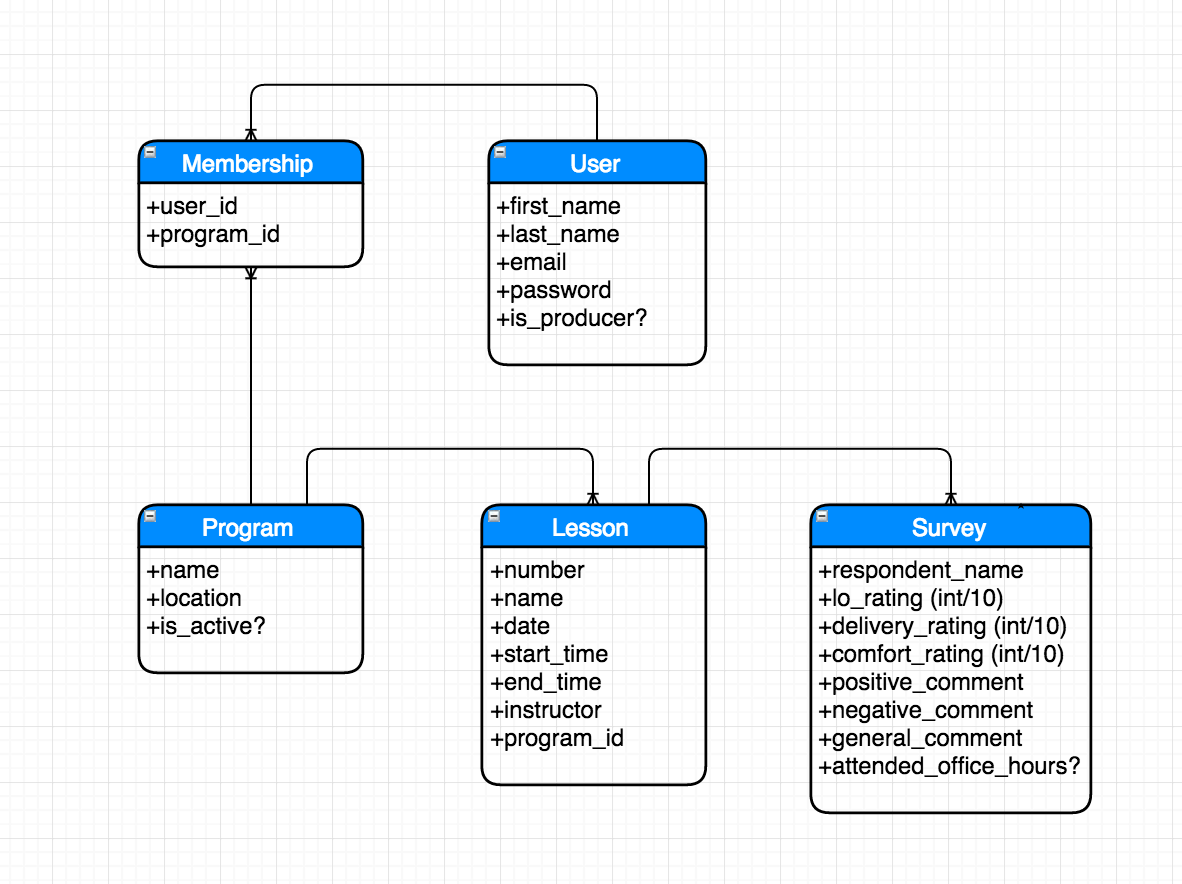
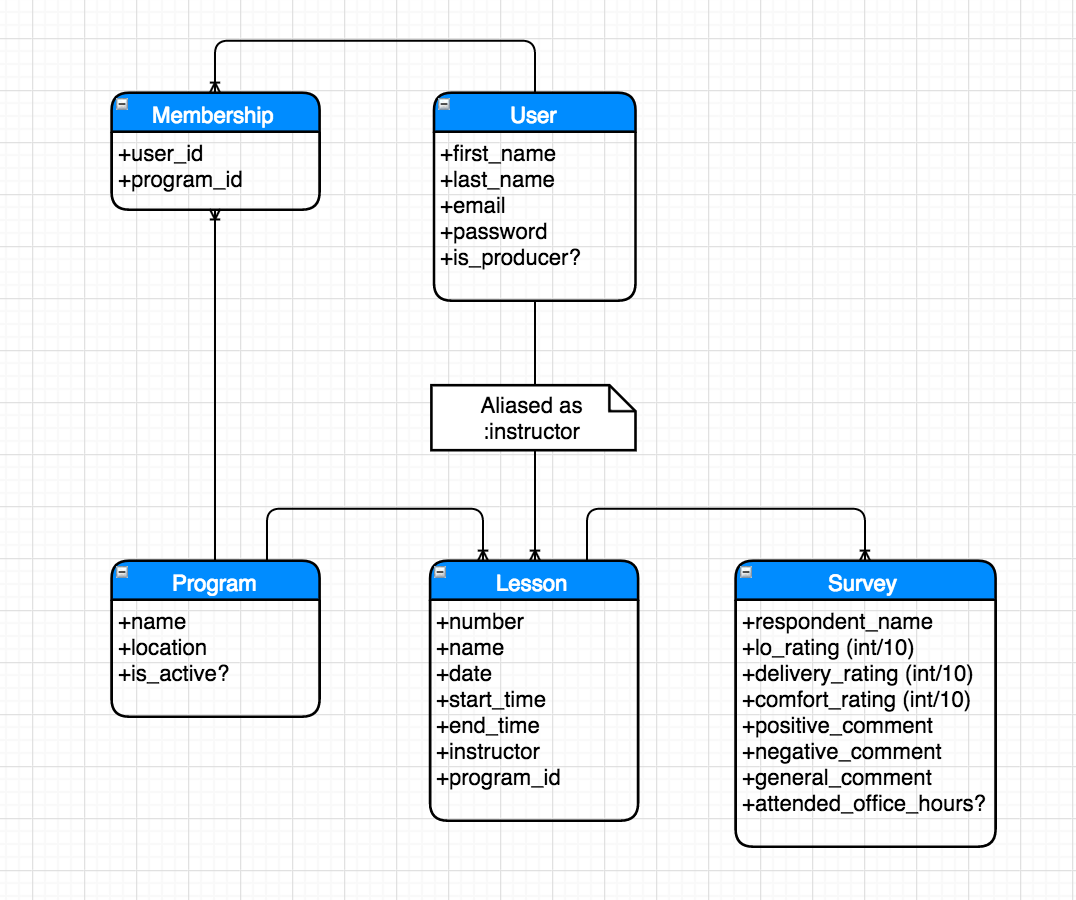
added Lesson model / migration, updated ERD with :instructor alias association

diff --git a/exit_ticket_app/db/schema.rb b/exit_ticket_app/db/schema.rb
@@ -10,10 +10,22 @@
 #
 # It's strongly recommended that you check this file into your version control system.
 
-ActiveRecord::Schema.define(version: 20170228144859) do
+ActiveRecord::Schema.define(version: 20170301151122) do
 
   # These are extensions that must be enabled in order to support this database
   enable_extension "plpgsql"
+
+  create_table "lessons", force: :cascade do |t|
+    t.integer  "number"
+    t.string   "name"
+    t.date     "date"
+    t.time     "start_time"
+    t.time     "end_time"
+    t.integer  "user_id"
+    t.datetime "created_at", null: false
+    t.datetime "updated_at", null: false
+    t.index ["user_id"], name: "index_lessons_on_user_id", using: :btree
+  end
 
   create_table "memberships", force: :cascade do |t|
     t.integer  "user_id"

diff --git a/exit_ticket_app/db/migrate/20170301151122_create_lessons.rb b/exit_ticket_app/db/migrate/20170301151122_create_lessons.rb
@@ -1,0 +1,13 @@
+class CreateLessons < ActiveRecord::Migration[5.0]
+  def change
+    create_table :lessons do |t|
+      t.integer :number
+      t.string :name
+      t.date :date
+      t.time :start_time
+      t.time :end_time
+      t.references :user
+      t.timestamps
+    end
+  end
+end

diff --git a/exit_ticket_app/app/models/user.rb b/exit_ticket_app/app/models/user.rb
@@ -6,4 +6,6 @@ class User < ApplicationRecord
 
   has_many :memberships
   has_many :programs, through: :memberships
+  has_many :lessons
+  alias_attribute :lessons_taught, :lessons
 end

diff --git a/exit_ticket_app/app/models/lesson.rb b/exit_ticket_app/app/models/lesson.rb
@@ -1,0 +1,7 @@
+class Lesson < ApplicationRecord
+  belongs_to :program
+  belongs_to :user
+  alias_attribute :instructor, :user
+
+  has_many :surveys
+end

diff --git a/exit_ticket_app/test/models/lesson_test.rb b/exit_ticket_app/test/models/lesson_test.rb
@@ -1,0 +1,7 @@
+require 'test_helper'
+
+class LessonTest < ActiveSupport::TestCase
+  # test "the truth" do
+  #   assert true
+  # end
+end
